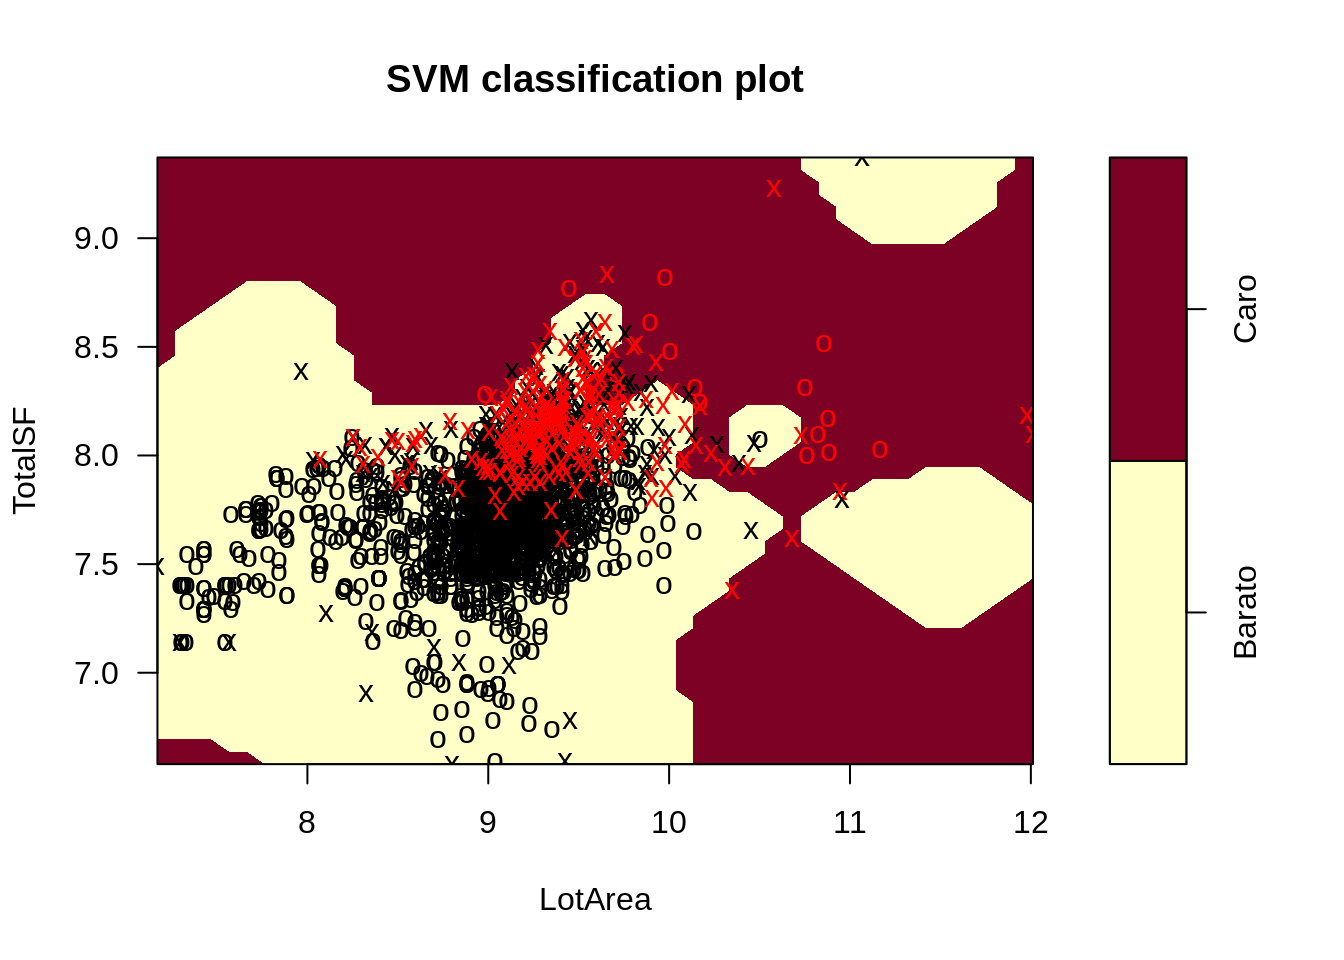
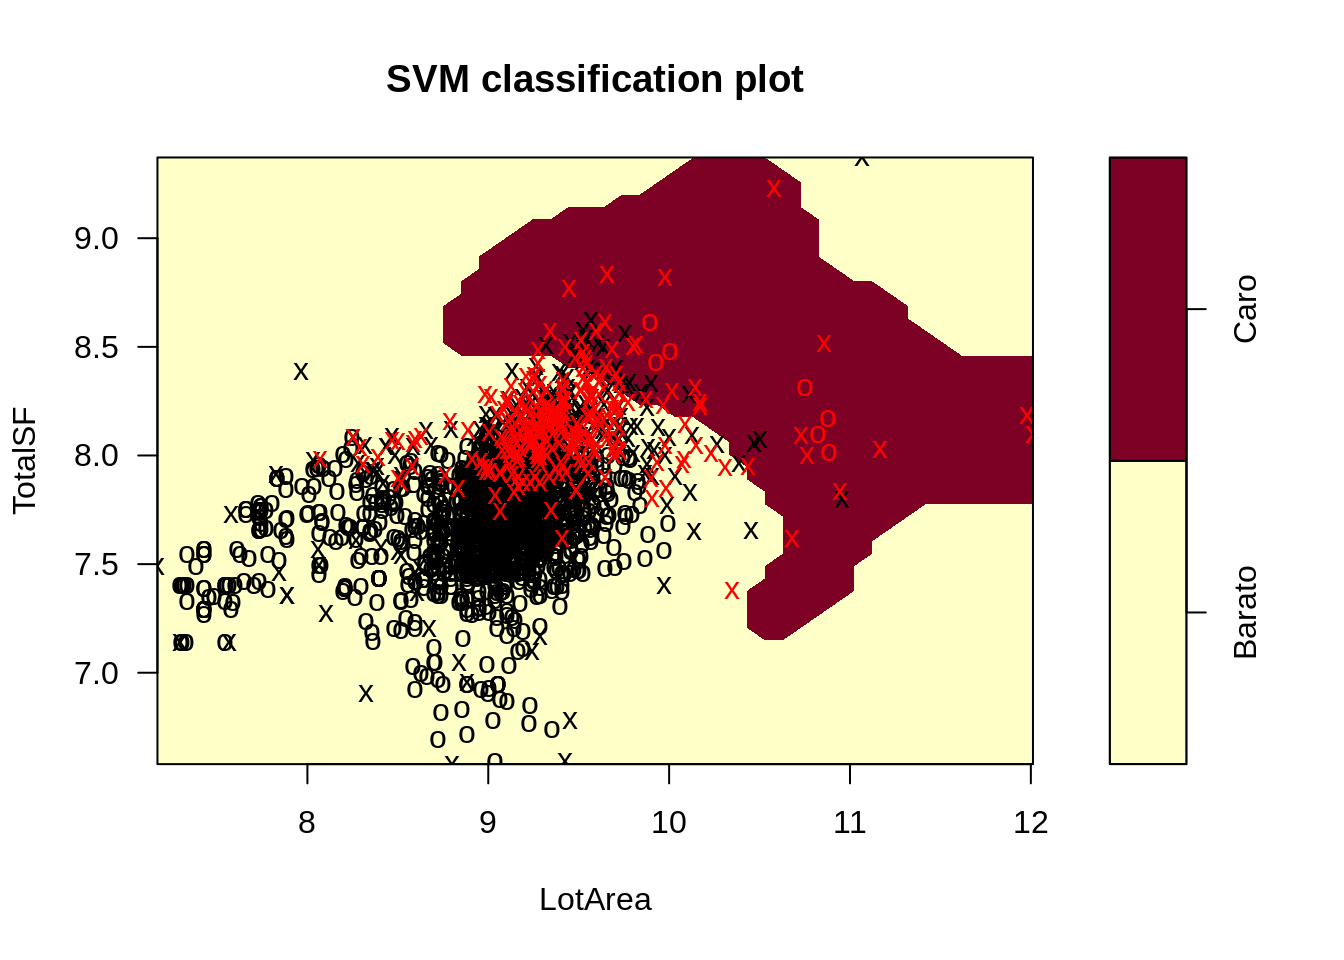
svm complete

diff --git a/_site/svm.html b/_site/svm.html
@@ -20,6 +20,7 @@
 <script src="site_libs/bootstrap-3.3.5/shim/html5shiv.min.js"></script>
 <script src="site_libs/bootstrap-3.3.5/shim/respond.min.js"></script>
 <script src="site_libs/navigation-1.1/tabsets.js"></script>
+<script src="site_libs/navigation-1.1/codefolding.js"></script>
 <link href="site_libs/highlightjs-9.12.0/textmate.css" rel="stylesheet" />
 <script src="site_libs/highlightjs-9.12.0/highlight.js"></script>
 
@@ -245,6 +246,9 @@ $(document).ready(function () {
 </style>
 
 <!-- code folding -->
+<style type="text/css">
+.code-folding-btn { margin-bottom: 4px; }
+</style>
 
 
 
@@ -314,6 +318,14 @@ $(document).ready(function () {
 
 <div class="fluid-row" id="header">
 
+<div class="btn-group pull-right">
+<button type="button" class="btn btn-default btn-xs dropdown-toggle" data-toggle="dropdown" aria-haspopup="true" aria-expanded="false"><span>Code</span> <span class="caret"></span></button>
+<ul class="dropdown-menu" style="min-width: 50px;">
+<li><a id="rmd-show-all-code" href="#">Show All Code</a></li>
+<li><a id="rmd-hide-all-code" href="#">Hide All Code</a></li>
+</ul>
+</div>
+
 
 
 <h1 class="title toc-ignore">SVM</h1>
@@ -321,83 +333,134 @@ $(document).ready(function () {
 </div>
 
 
+<p>A continuación aplicaremos un modelo svm o support vector machine a nuestro grupo de datos. El algoritmo clasifica cada dato nuevo en el grupo que corresponda, según como consiga crear hiperplanos que separen de manera lineal los grupos de datos.</p>
+<p>Cargamos las librerias y los datos que utilizaremos para el entrenamiento, con el conjunto de train, y la evaluación del modelo con el conjunto de test:</p>
 <pre class="r"><code>library(class)
-library(dplyr)</code></pre>
-<pre><code>## 
-## Attaching package: &#39;dplyr&#39;</code></pre>
-<pre><code>## The following objects are masked from &#39;package:stats&#39;:
-## 
-##     filter, lag</code></pre>
-<pre><code>## The following objects are masked from &#39;package:base&#39;:
-## 
-##     intersect, setdiff, setequal, union</code></pre>
-<pre class="r"><code>library(caret)</code></pre>
-<pre><code>## Loading required package: lattice</code></pre>
-<pre><code>## Loading required package: ggplot2</code></pre>
-<pre class="r"><code>library (ROCR)
+library(dplyr)
+library(caret)
+library (ROCR)
 library(e1071)
 source(&quot;funcs.R&quot;)</code></pre>
 <pre class="r"><code>dataTrain &lt;- readRDS(&quot;datasetTrain.rds&quot;)
 dataTest &lt;- readRDS(&quot;datasetTest.rds&quot;)</code></pre>
+<p>Procedemos a despejar de los dataset (train y test) la variable objetivo original SalePrice. De la cual ya hemos creamos la variable GrupoPrecio, del tipo categorica. Separando asi por una parte un grupo de casas baratas y otro grupo de casas caras.</p>
+<p>Nuestro modelo clasificará casas entre estos dos grupos.</p>
 <pre class="r"><code>dataTrain &lt;- dataTrain %&gt;% dplyr::select(-SalePrice)
-dataTest &lt;- dataTest %&gt;% dplyr::select(-SalePrice)
+dataTest &lt;- dataTest %&gt;% dplyr::select(-SalePrice)</code></pre>
+<p>Para este modelo se han escogido dos grupos de caracteristicas, para poder comproba como mejora si añadimos o quitamos variables al modelo. Estos dos grupos de caracteristicas las divideramos en group1 y group2.</p>
+<pre class="r"><code>group1 &lt;- c(&#39;TotalSF&#39;,&#39;LotArea&#39;,&#39;GrupoPrecio&#39;)
+group2 &lt;- c(&#39;TotalSF&#39;,&#39;LotArea&#39;,&#39;GrLivArea&#39;,&#39;GrupoPrecio&#39;)
 
-group &lt;- c(&#39;TotalSF&#39;,&#39;LotArea&#39;,&#39;GrupoPrecio&#39;)
+dataTrain1 &lt;- dataTrain %&gt;% dplyr::select(group1)
+dataTest1 &lt;- dataTest %&gt;% dplyr::select(group1)
 
-dataTrain &lt;- dataTrain %&gt;% dplyr::select(group)
-dataTest &lt;- dataTest %&gt;% dplyr::select(group)</code></pre>
-<pre class="r"><code>XTrain &lt;- dataTrain %&gt;% dplyr::select(-GrupoPrecio)
-YTrain &lt;- dataTrain$GrupoPrecio
+dataTrain2 &lt;- dataTrain %&gt;% dplyr::select(group2)
+dataTest2 &lt;- dataTest %&gt;% dplyr::select(group2)</code></pre>
+<pre class="r"><code>XTrain1 &lt;- dataTrain1 %&gt;% dplyr::select(-GrupoPrecio)
+YTrain1 &lt;- dataTrain1$GrupoPrecio
 
-XTest &lt;- dataTest %&gt;% dplyr::select(-GrupoPrecio)
-YTest &lt;- dataTest$GrupoPrecio</code></pre>
+XTest1 &lt;- dataTest1 %&gt;% dplyr::select(-GrupoPrecio)
+YTest1 &lt;- dataTest1$GrupoPrecio
+
+XTrain2 &lt;- dataTrain2 %&gt;% dplyr::select(-GrupoPrecio)
+YTrain2 &lt;- dataTrain2$GrupoPrecio
+
+XTest2 &lt;- dataTest2 %&gt;% dplyr::select(-GrupoPrecio)
+YTest2 &lt;- dataTest2$GrupoPrecio</code></pre>
+<p>A continuación, entrenamos el modelo con el conjunto de entrenamiento y evaluamos con el conjunto de test, el primer grupo de caracteristicas escogidas (group1).</p>
 <pre class="r"><code>#model &lt;- svm(formula = GrupoPrecio ~ ., data = dataTrain, kernel = &quot;linear&quot;, cost = 1, scale = TRUE)
-model &lt;- best.tune(method = svm, train.x = GrupoPrecio ~ ., data = dataTrain, ranges = list(cost = c(0.001, 0.01, 0.1, 1, 5, 10, 100)), kernel = &quot;radial&quot;, gamma = 1)
+model1 &lt;- best.tune(method = svm, train.x = GrupoPrecio ~ ., data = dataTrain1, ranges = list(cost = c(0.001, 0.01, 0.1, 1, 5, 10, 100)), kernel = &quot;radial&quot;, gamma = 1)
 
-plot(model, dataTrain)</code></pre>
+plot(model1, dataTrain1)</code></pre>
 <p><img src="svm_files/figure-html/run_model-1.png" width="672" /></p>
-<pre class="r"><code>pred &lt;- predict(model, newdata = XTest)
-tab_test &lt;- table(pred, YTest, dnn = c(&quot;Actual&quot;, &quot;Predichos&quot;))
-(tab_test)</code></pre>
+<p>Debido a que este grupo solo contiene dos caracteristicas nos permite dibujar como el modelo svm divide el plano para clasificar los nuevos registros. Visualizamos también como se comporta el modelo con el conjunto de datos de test.</p>
+<pre class="r"><code>pred1 &lt;- predict(model1, newdata = XTest1)
+tab_test1 &lt;- table(pred1, YTest1, dnn = c(&quot;Actual&quot;, &quot;Predichos&quot;))
+(tab_test1)</code></pre>
 <pre><code>##         Predichos
 ## Actual   Barato Caro
-##   Barato    647  103
-##   Caro       17   22</code></pre>
-<pre class="r"><code>draw_confusion_matrix(tab_test, &quot;Actual&quot;, &quot;Predichos&quot;)</code></pre>
-<p><img src="svm_files/figure-html/evaluate_model-1.png" width="672" /></p>
-<pre class="r"><code>accuracy(tab_test)</code></pre>
-<pre><code>## [1] 84.79087</code></pre>
-<pre class="r"><code>knn_test_error &lt;- calc_error_rate(predicted.value=pred, true.value=YTest)
-(knn_test_error)</code></pre>
-<pre><code>## [1] 0.1520913</code></pre>
-<pre class="r"><code>cm &lt;- confusionMatrix(tab_test)
-(cm)</code></pre>
+##   Barato    648  106
+##   Caro       16   19</code></pre>
+<pre class="r"><code>draw_confusion_matrix(tab_test1, &quot;Actual&quot;, &quot;Predichos&quot;)</code></pre>
+<p><img src="svm_files/figure-html/unnamed-chunk-5-1.png" width="672" /></p>
+<pre class="r"><code>accuracy(tab_test1)</code></pre>
+<pre><code>## [1] 84.53739</code></pre>
+<pre class="r"><code>svm_test_error1 &lt;- calc_error_rate(predicted.value=pred1, true.value=YTest1)
+(svm_test_error1)</code></pre>
+<pre><code>## [1] 0.1546261</code></pre>
+<pre class="r"><code>cm1 &lt;- confusionMatrix(tab_test1)
+(cm1)</code></pre>
 <pre><code>## Confusion Matrix and Statistics
 ## 
 ##         Predichos
 ## Actual   Barato Caro
-##   Barato    647  103
-##   Caro       17   22
+##   Barato    648  106
+##   Caro       16   19
 ##                                           
-##                Accuracy : 0.8479          
-##                  95% CI : (0.8209, 0.8723)
+##                Accuracy : 0.8454          
+##                  95% CI : (0.8182, 0.8699)
 ##     No Information Rate : 0.8416          
-##     P-Value [Acc &gt; NIR] : 0.3337          
+##     P-Value [Acc &gt; NIR] : 0.4078          
 ##                                           
-##                   Kappa : 0.2087          
+##                   Kappa : 0.1807          
 ##                                           
-##  Mcnemar&#39;s Test P-Value : 8.533e-15       
+##  Mcnemar&#39;s Test P-Value : 7.776e-16       
 ##                                           
-##             Sensitivity : 0.9744          
-##             Specificity : 0.1760          
-##          Pos Pred Value : 0.8627          
-##          Neg Pred Value : 0.5641          
+##             Sensitivity : 0.9759          
+##             Specificity : 0.1520          
+##          Pos Pred Value : 0.8594          
+##          Neg Pred Value : 0.5429          
 ##              Prevalence : 0.8416          
-##          Detection Rate : 0.8200          
-##    Detection Prevalence : 0.9506          
-##       Balanced Accuracy : 0.5752          
+##          Detection Rate : 0.8213          
+##    Detection Prevalence : 0.9556          
+##       Balanced Accuracy : 0.5640          
 ##                                           
 ##        &#39;Positive&#39; Class : Barato          
+## </code></pre>
+<p>A continuación se realizara todos los pasos anteriores pero esta vez con otro conjunto de caracteristicas. Este conjunto dispone de más caracteristicas por lo que no podremos visualizar como separa el plano de caracteristicas. Podremos ver cuales de los dos modelos SVM funciona mejor.</p>
+<pre class="r"><code>model2 &lt;- best.tune(method = svm, train.x = GrupoPrecio ~ ., data = dataTrain2, ranges = list(cost = c(0.001, 0.01, 0.1, 1, 5, 10, 100)), kernel = &quot;radial&quot;, gamma = 1)</code></pre>
+<pre class="r"><code>pred2 &lt;- predict(model2, newdata = XTest2)
+tab_test2 &lt;- table(pred2, YTest2, dnn = c(&quot;Actual&quot;, &quot;Predichos&quot;))
+(tab_test2)</code></pre>
+<pre><code>##         Predichos
+## Actual   Barato Caro
+##   Barato    649  102
+##   Caro       15   23</code></pre>
+<pre class="r"><code>draw_confusion_matrix(tab_test2, &quot;Actual&quot;, &quot;Predichos&quot;)</code></pre>
+<p><img src="svm_files/figure-html/unnamed-chunk-7-1.png" width="672" /></p>
+<pre class="r"><code>accuracy(tab_test2)</code></pre>
+<pre><code>## [1] 85.1711</code></pre>
+<pre class="r"><code>svm_test_error2 &lt;- calc_error_rate(predicted.value=pred2, true.value=YTest2)
+(svm_test_error2)</code></pre>
+<pre><code>## [1] 0.148289</code></pre>
+<pre class="r"><code>cm2 &lt;- confusionMatrix(tab_test2)
+(cm2)</code></pre>
+<pre><code>## Confusion Matrix and Statistics
+## 
+##         Predichos
+## Actual   Barato Caro
+##   Barato    649  102
+##   Caro       15   23
+##                                          
+##                Accuracy : 0.8517         
+##                  95% CI : (0.825, 0.8758)
+##     No Information Rate : 0.8416         
+##     P-Value [Acc &gt; NIR] : 0.2339         
+##                                          
+##                   Kappa : 0.225          
+##                                          
+##  Mcnemar&#39;s Test P-Value : 1.855e-15      
+##                                          
+##             Sensitivity : 0.9774         
+##             Specificity : 0.1840         
+##          Pos Pred Value : 0.8642         
+##          Neg Pred Value : 0.6053         
+##              Prevalence : 0.8416         
+##          Detection Rate : 0.8226         
+##    Detection Prevalence : 0.9518         
+##       Balanced Accuracy : 0.5807         
+##                                          
+##        &#39;Positive&#39; Class : Barato         
 ## </code></pre>
 
 
@@ -433,6 +496,11 @@ $(document).ready(function () {
 </script>
 
 <!-- code folding -->
+<script>
+$(document).ready(function () {
+  window.initializeCodeFolding("hide" === "show");
+});
+</script>
 
 
 <!-- dynamically load mathjax for compatibility with self-contained -->
